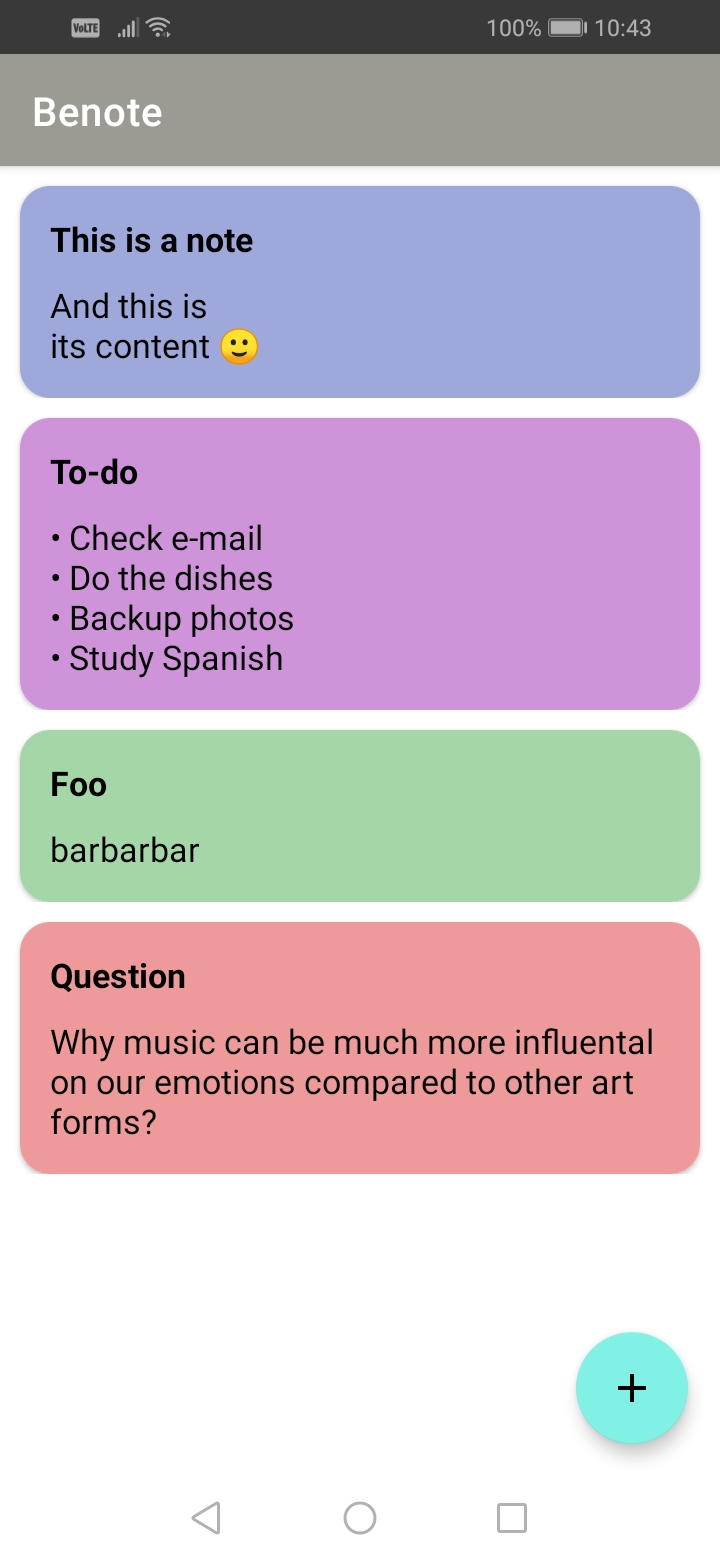
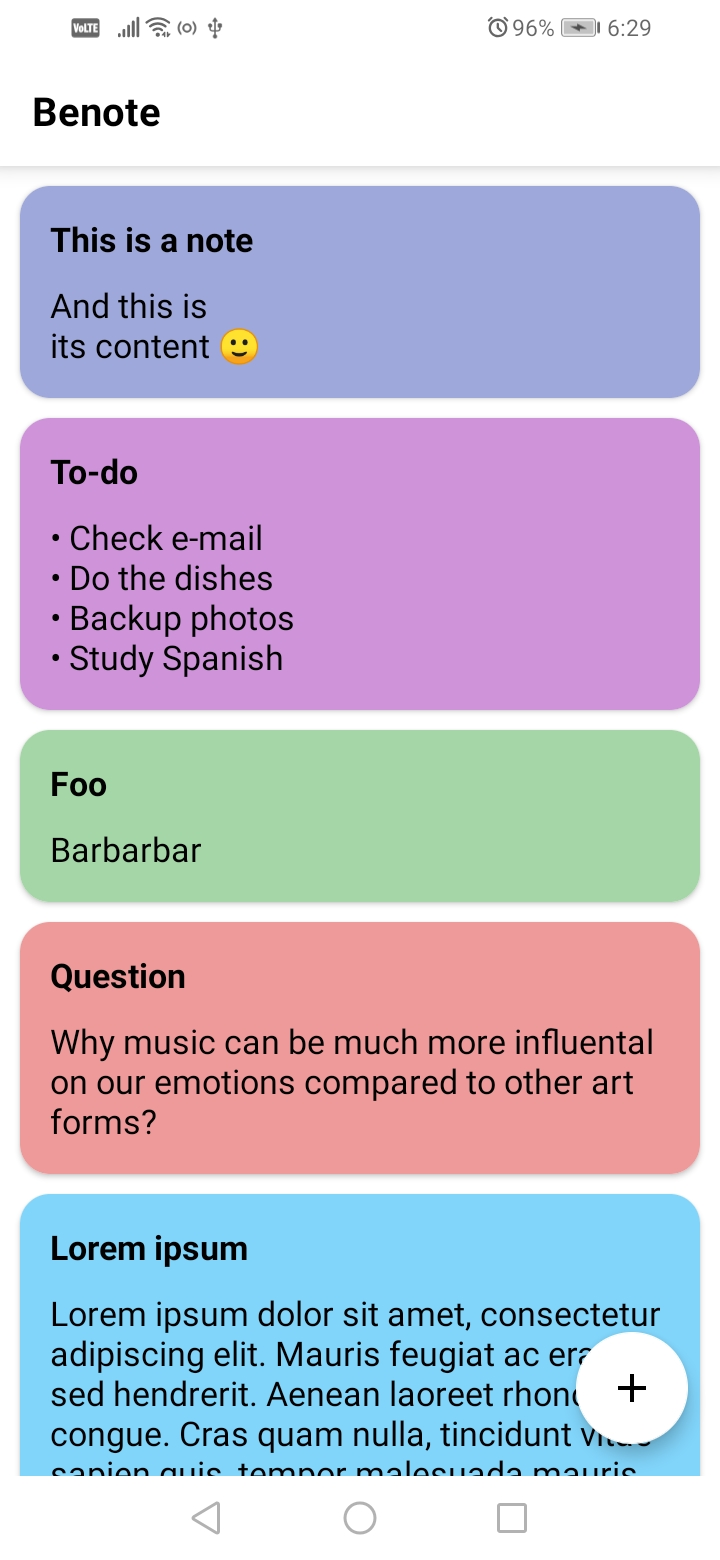
UI changes, implement Coroutines

Changed region(s): [[0.0, 0.7385, 0.9778, 0.9538], [0.0, 0.0, 1.0, 0.1231], [0.0611, 0.5231, 0.275, 0.5538]]

diff --git a/app/src/main/java/com/ahmetardakavakci/benote/view/ContentFragment.kt b/app/src/main/java/com/ahmetardakavakci/benote/view/ContentFragment.kt
@@ -7,8 +7,7 @@ import android.view.LayoutInflater
 import android.view.View
 import android.view.ViewGroup
 import android.widget.Toast
-import androidx.compose.ui.graphics.Color
-import androidx.compose.ui.graphics.colorspace.ColorModel
+import androidx.activity.addCallback
 import androidx.core.content.ContextCompat
 import androidx.fragment.app.Fragment
 import androidx.navigation.findNavController
@@ -16,9 +15,10 @@ import com.ahmetardakavakci.benote.R
 import com.ahmetardakavakci.benote.databinding.FragmentContentBinding
 import com.ahmetardakavakci.benote.db.DatabaseNote
 import com.ahmetardakavakci.benote.db.Note
+import kotlinx.coroutines.CoroutineScope
 import kotlinx.coroutines.Dispatchers
-import kotlinx.coroutines.GlobalScope
 import kotlinx.coroutines.launch
+import kotlinx.coroutines.withContext
 
 class ContentFragment : Fragment() {
 
@@ -37,6 +37,11 @@ class ContentFragment : Fragment() {
     override fun onCreate(savedInstanceState: Bundle?) {
         super.onCreate(savedInstanceState)
         db = DatabaseNote.getDatabase(requireContext())
+
+        requireActivity().onBackPressedDispatcher.addCallback(this) {
+            view?.findNavController()?.navigate(contentToList)
+        }
+
     }
 
     override fun onCreateView(
@@ -52,24 +57,22 @@ class ContentFragment : Fragment() {
 
         binding.apply {
             // collapse all fabs
-            deleteFab.visibility = View.INVISIBLE
-            saveFab.visibility = View.INVISIBLE
-            colorLayout.visibility = View.INVISIBLE
             deleteFab.alpha = 0f
             saveFab.alpha = 0f
             menuFab.shrink()
+            colorMenu.shrink()
 
             // fab click listeners
             saveFab.setOnClickListener { saveFab(view) }
             deleteFab.setOnClickListener {
 
-                GlobalScope.launch(Dispatchers.IO) {
+                CoroutineScope(Dispatchers.IO).launch() {
                     db.daoNote().delete(note)
                 }
 
                 view.findNavController().navigate(contentToList)
             }
-            backFab.setOnClickListener{ view.findNavController().navigate(contentToList) }
+            colorMenu.setOnClickListener { colorMenu(view) }
             menuFab.setOnClickListener { menuFab(view) }
 
             redSel.setOnClickListener {
@@ -144,30 +147,33 @@ class ContentFragment : Fragment() {
                 with(binding){
                     titleText.setText("")
                     contentText.setText("")
-                    deleteFab.visibility = View.INVISIBLE
-                    saveFab.setMargins(16,16,16,80)
-                    colorLayout.setMargins(16,40,16,150)
+                    deleteFab.visibility = View.GONE
+                    menuFab.visibility = View.GONE
+                    saveFab.setMargins(16,16,16,16)
+                    saveFab.visibility = View.VISIBLE
                 }
 
             } else {
 
-                GlobalScope.launch(Dispatchers.IO) {
+                CoroutineScope(Dispatchers.IO).launch() {
                     note = db.daoNote().getById(choosenId)
 
-                    with(binding) {
-                        titleText.setText(note.titleString)
-                        contentText.setText(note.contentString)
+                    withContext(Dispatchers.Main) {
+                        with(binding) {
+                            titleText.setText(note.titleString)
+                            contentText.setText(note.contentString)
 
-                        if(note.colorInt == 0) {
-                            val white = ContextCompat.getColor(requireContext(), R.color.white)
-                            binding.linearLayout.setBackgroundColor(white)
-                            requireActivity().window.navigationBarColor = white
-                        } else {
-                            binding.linearLayout.setBackgroundColor(note.colorInt!!)
-                            requireActivity().window.navigationBarColor = note.colorInt!!
+                            if(note.colorInt == 0) {
+                                val white = ContextCompat.getColor(requireContext(), R.color.white)
+                                binding.linearLayout.setBackgroundColor(white)
+                                requireActivity().window.navigationBarColor = white
+                            } else {
+                                binding.linearLayout.setBackgroundColor(note.colorInt!!)
+                                requireActivity().window.navigationBarColor = note.colorInt!!
+                                color = note.colorInt!!
+                            }
                         }
                     }
-
                 }
 
 
@@ -186,7 +192,6 @@ class ContentFragment : Fragment() {
                    if (!new) {
                        deleteFab.visibility = View.VISIBLE
                    }
-                   colorLayout.visibility = View.VISIBLE
                    menuFab.extend()
                }
            } else {
@@ -195,11 +200,20 @@ class ContentFragment : Fragment() {
                    if (!new) {
                        deleteFab.visibility = View.INVISIBLE
                    }
-                   colorLayout.visibility = View.INVISIBLE
                    menuFab.shrink()
                }
            }
        }
+    }
+
+    private fun colorMenu(view: View) {
+        if (binding.colorLayout.visibility == View.INVISIBLE) {
+            binding.colorLayout.visibility = View.VISIBLE
+            binding.colorMenu.extend()
+        } else {
+            binding.colorLayout.visibility = View.INVISIBLE
+            binding.colorMenu.shrink()
+        }
     }
 
     private fun saveFab(view: View) {
@@ -217,14 +231,14 @@ class ContentFragment : Fragment() {
                     null, title, content, color
                 )
 
-                GlobalScope.launch(Dispatchers.IO) {
+                CoroutineScope(Dispatchers.IO).launch {
                     db.daoNote().insert(note)
                 }
 
                 view.findNavController().navigate(contentToList)
 
             } else if (!new && title.isNotEmpty() && content.isNotEmpty()){
-                GlobalScope.launch(Dispatchers.IO) {
+                CoroutineScope(Dispatchers.IO).launch() {
                     db.daoNote().update(choosenId, title, content, color)
                 }
 

diff --git a/app/src/main/java/com/ahmetardakavakci/benote/view/ListFragment.kt b/app/src/main/java/com/ahmetardakavakci/benote/view/ListFragment.kt
@@ -1,11 +1,14 @@
 package com.ahmetardakavakci.benote.view
 
+import android.content.Context
+import android.content.res.Configuration
+import android.os.Build
 import android.os.Bundle
-import androidx.fragment.app.Fragment
 import android.view.LayoutInflater
 import android.view.View
 import android.view.ViewGroup
 import androidx.core.content.ContextCompat
+import androidx.fragment.app.Fragment
 import androidx.navigation.findNavController
 import androidx.recyclerview.widget.LinearLayoutManager
 import com.ahmetardakavakci.benote.NotesAdapter
@@ -20,13 +23,25 @@ class ListFragment : Fragment() {
     private var _binding: FragmentListBinding? = null
     private val binding get() = _binding!!
 
+    lateinit private var notesAdapter: NotesAdapter
+
     private lateinit var db: DatabaseNote
-    private lateinit var allNotes : List<Note>
+    private lateinit var allNotes: List<Note>
+
+    override fun onAttach(context: Context) {
+        super.onAttach(context)
+        val ft = fragmentManager?.beginTransaction();
+        if (Build.VERSION.SDK_INT >= 26) ft?.setReorderingAllowed(false)
+        println("Refresh started")
+        ft?.detach(this)?.attach(this)?.commit()
+        println("Refresh finished")
+    }
 
     override fun onCreate(savedInstanceState: Bundle?) {
         super.onCreate(savedInstanceState)
         db = DatabaseNote.getDatabase(requireContext())
         allNotes = db.daoNote().getAll()
+        notesAdapter = NotesAdapter(allNotes)
     }
 
     override fun onCreateView(
@@ -42,21 +57,15 @@ class ListFragment : Fragment() {
         super.onViewCreated(view, savedInstanceState)
         binding.addFab.setOnClickListener { addFab(view) }
 
+        println("onViewCreated")
         requireActivity().window.navigationBarColor = ContextCompat.getColor(requireContext(), R.color.white)
 
         binding.notesRecycler.apply {
             layoutManager = LinearLayoutManager(requireActivity())
-            adapter = NotesAdapter(allNotes)
+            adapter = notesAdapter
         }
 
-        if (binding.notesRecycler.adapter != null) {
-            binding.notesRecycler.adapter!!.notifyDataSetChanged()
-            println("adapter is not empty")
-        } else {
-            println("adapter is null")
-        }
-
-
+        notesAdapter.notifyDataSetChanged()
 
     }
 

diff --git a/app/src/main/java/com/ahmetardakavakci/benote/view/MainActivity.kt b/app/src/main/java/com/ahmetardakavakci/benote/view/MainActivity.kt
@@ -1,6 +1,8 @@
 package com.ahmetardakavakci.benote.view
 
+import android.os.Build
 import android.os.Bundle
+import android.view.WindowManager
 import androidx.appcompat.app.AppCompatActivity
 import com.ahmetardakavakci.benote.R
 
@@ -9,6 +11,7 @@ class MainActivity : AppCompatActivity() {
     override fun onCreate(savedInstanceState: Bundle?) {
         super.onCreate(savedInstanceState)
         setContentView(R.layout.activity_main)
+
     }
 
 

diff --git a/TODO.md b/TODO.md
@@ -1,5 +1,5 @@
 # To-do
-- [ ] Implement Kotlin Coroutines
+- [x] Implement Kotlin Coroutines
 - [ ] Fix notes not reloading after creating them
 - [ ] Fix app crashing after saving the note
 
